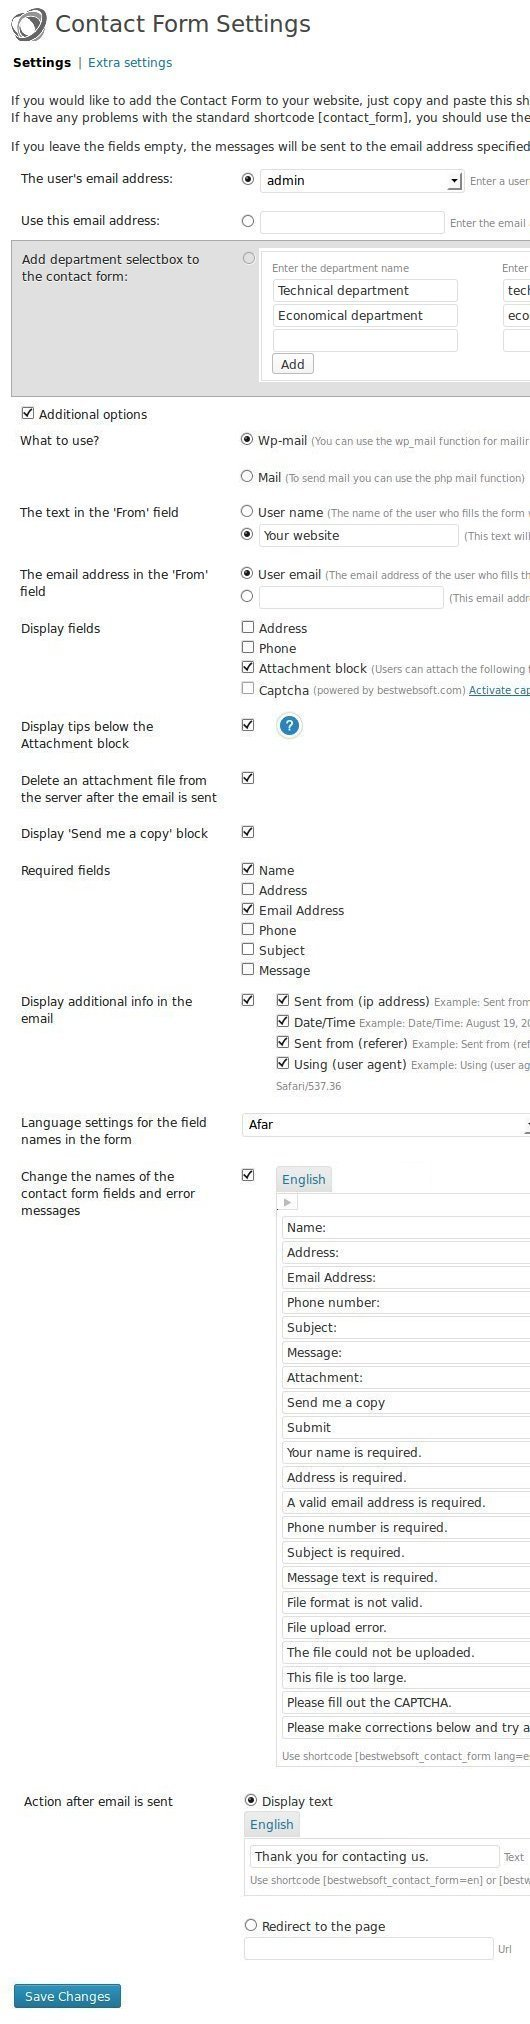
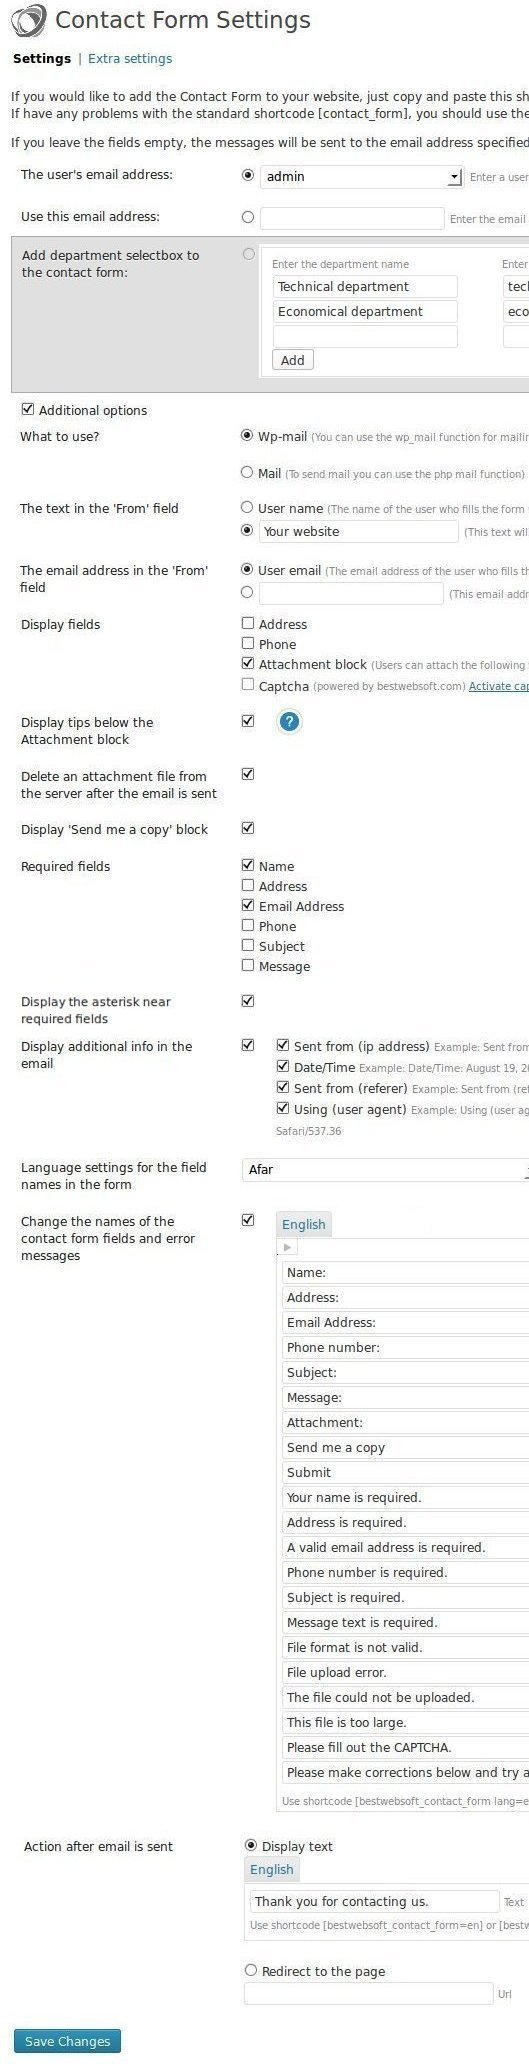
V3.59 - Ability to not display asterisk near required fields.
git-svn-id: https://plugins.svn.wordpress.org/contact-form-plugin/trunk@786375 b8457f37-d9ea-0310-8a92-e5e31aec5664

diff --git a/js/bws_menu.js b/js/bws_menu.js
@@ -9,6 +9,6 @@
 			} else {
 				$('.bws_system_info_meta_box .inside').css('display','block');
 			}					
-		});
+		});	
 	});
 })(jQuery);

diff --git a/contact_form.php b/contact_form.php
@@ -4,7 +4,7 @@ Plugin Name: Contact Form Plugin
 Plugin URI:  http://bestwebsoft.com/plugin/
 Description: Plugin for Contact Form.
 Author: BestWebSoft
-Version: 3.58
+Version: 3.59
 Author URI: http://bestwebsoft.com/
 License: GPLv2 or later
 */
@@ -43,58 +43,59 @@ if( ! function_exists( 'cntctfrm_settings' ) ) {
 		global $wpmu, $cntctfrm_options, $cntctfrm_option_defaults, $wpdb;
 
 		$cntctfrm_option_defaults = array(
-			'cntctfrm_user_email' => 'admin',
-			'cntctfrm_custom_email' => '',
-			'cntctfrm_select_email' => 'user',
-			'cntctfrm_from_email' => 'user',
-			'cntctfrm_custom_from_email' => '',
-			'cntctfrm_additions_options' => 0,
-			'cntctfrm_attachment' => 0,
-			'cntctfrm_attachment_explanations' => 1,
-			'cntctfrm_send_copy' => 0,
-			'cntctfrm_from_field' => get_bloginfo( 'name' ),
-			'cntctfrm_select_from_field' => 'custom',
-			'cntctfrm_display_phone_field' => 0,
-			'cntctfrm_display_address_field' => 0,
-			'cntctfrm_required_name_field' => 1,
-			'cntctfrm_required_address_field' => 0,
-			'cntctfrm_required_email_field' => 1,
-			'cntctfrm_required_phone_field' => 0,
-			'cntctfrm_required_subject_field' => 1,
-			'cntctfrm_required_message_field' => 1,
-			'cntctfrm_display_add_info' => 1,
-			'cntctfrm_display_sent_from' => 1,
-			'cntctfrm_display_date_time' => 1,
-			'cntctfrm_mail_method' => 'wp-mail',
-			'cntctfrm_display_coming_from' => 1,
-			'cntctfrm_display_user_agent' => 1,
-			'cntctfrm_language'	=> array(),
-			'cntctfrm_change_label' => 0,
-			'cntctfrm_name_label' => array( 'en' => __( "Name:", 'contact_form' ) ),
-			'cntctfrm_address_label' => array( 'en' => __( "Address:", 'contact_form' ) ),
-			'cntctfrm_email_label' => array( 'en' => __( "Email Address:", 'contact_form' ) ),		 	
-			'cntctfrm_phone_label' => array( 'en' => __( "Phone number:", 'contact_form' ) ),
-			'cntctfrm_subject_label' => array( 'en' => __( "Subject:", 'contact_form' ) ),
-			'cntctfrm_message_label' => array( 'en' => __( "Message:", 'contact_form' ) ),
-			'cntctfrm_attachment_label' => array( 'en' => __( "Attachment:", 'contact_form' ) ),
-			'cntctfrm_send_copy_label' => array( 'en' => __( "Send me a copy", 'contact_form' ) ),
-			'cntctfrm_submit_label' => array( 'en' => __( "Submit", 'contact_form' ) ),
-			'cntctfrm_name_error' => array( 'en' => __( "Your name is required.", 'contact_form' ) ),
-			'cntctfrm_address_error' => array( 'en' => __( "Address is required.", 'contact_form' ) ),
-			'cntctfrm_email_error' => array( 'en' => __( "A valid email address is required.", 'contact_form' ) ),
-			'cntctfrm_phone_error' => array( 'en' => __( "Phone number is required.", 'contact_form' ) ),
-			'cntctfrm_subject_error' => array( 'en' => __( "Subject is required.", 'contact_form' ) ),
-			'cntctfrm_message_error' => array( 'en' => __( "Message text is required.", 'contact_form' ) ),
-			'cntctfrm_attachment_error' => array( 'en' => __( "File format is not valid.", 'contact_form' ) ),
-			'cntctfrm_attachment_upload_error'=> array( 'en' => __( "File upload error.", 'contact_form' ) ),
-			'cntctfrm_attachment_move_error' => array( 'en' => __( "The file could not be uploaded.", 'contact_form' ) ),
-			'cntctfrm_attachment_size_error' => array( 'en' => __( "This file is too large.", 'contact_form' ) ),
-			'cntctfrm_captcha_error' => array( 'en' => __( "Please fill out the CAPTCHA.", 'contact_form' ) ),
-			'cntctfrm_form_error' => array( 'en' => __( "Please make corrections below and try again.", 'contact_form' ) ),
-			'cntctfrm_action_after_send' => 1,
-			'cntctfrm_thank_text' => array( 'en' => __( "Thank you for contacting us.", 'contact_form' ) ),
-			'cntctfrm_redirect_url' => '',
-			'cntctfrm_delete_attached_file' => '0'
+			'cntctfrm_user_email'				=> 'admin',
+			'cntctfrm_custom_email'				=> '',
+			'cntctfrm_select_email'				=> 'user',
+			'cntctfrm_from_email'				=> 'user',
+			'cntctfrm_custom_from_email'		=> '',
+			'cntctfrm_additions_options'		=> 0,
+			'cntctfrm_attachment'				=> 0,
+			'cntctfrm_attachment_explanations'	=> 1,
+			'cntctfrm_send_copy'				=> 0,
+			'cntctfrm_from_field'				=> get_bloginfo( 'name' ),
+			'cntctfrm_select_from_field'		=> 'custom',
+			'cntctfrm_display_phone_field' 		=> 0,
+			'cntctfrm_display_address_field' 	=> 0,
+			'cntctfrm_required_name_field' 		=> 1,
+			'cntctfrm_required_address_field' 	=> 0,
+			'cntctfrm_required_email_field' 	=> 1,
+			'cntctfrm_required_phone_field' 	=> 0,
+			'cntctfrm_required_subject_field' 	=> 1,
+			'cntctfrm_required_message_field' 	=> 1,
+			'cntctfrm_required_symbol'			=> 1,
+			'cntctfrm_display_add_info' 		=> 1,
+			'cntctfrm_display_sent_from' 		=> 1,
+			'cntctfrm_display_date_time' 		=> 1,
+			'cntctfrm_mail_method' 				=> 'wp-mail',
+			'cntctfrm_display_coming_from' 		=> 1,
+			'cntctfrm_display_user_agent' 		=> 1,
+			'cntctfrm_language'					=> array(),
+			'cntctfrm_change_label'				=> 0,
+			'cntctfrm_name_label' 				=> array( 'en' => __( "Name:", 'contact_form' ) ),
+			'cntctfrm_address_label' 			=> array( 'en' => __( "Address:", 'contact_form' ) ),
+			'cntctfrm_email_label' 				=> array( 'en' => __( "Email Address:", 'contact_form' ) ),		 	
+			'cntctfrm_phone_label' 				=> array( 'en' => __( "Phone number:", 'contact_form' ) ),
+			'cntctfrm_subject_label' 			=> array( 'en' => __( "Subject:", 'contact_form' ) ),
+			'cntctfrm_message_label' 			=> array( 'en' => __( "Message:", 'contact_form' ) ),
+			'cntctfrm_attachment_label'			=> array( 'en' => __( "Attachment:", 'contact_form' ) ),
+			'cntctfrm_send_copy_label'			=> array( 'en' => __( "Send me a copy", 'contact_form' ) ),
+			'cntctfrm_submit_label'				=> array( 'en' => __( "Submit", 'contact_form' ) ),
+			'cntctfrm_name_error' 				=> array( 'en' => __( "Your name is required.", 'contact_form' ) ),
+			'cntctfrm_address_error' 			=> array( 'en' => __( "Address is required.", 'contact_form' ) ),
+			'cntctfrm_email_error' 				=> array( 'en' => __( "A valid email address is required.", 'contact_form' ) ),
+			'cntctfrm_phone_error' 				=> array( 'en' => __( "Phone number is required.", 'contact_form' ) ),
+			'cntctfrm_subject_error' 			=> array( 'en' => __( "Subject is required.", 'contact_form' ) ),
+			'cntctfrm_message_error' 			=> array( 'en' => __( "Message text is required.", 'contact_form' ) ),
+			'cntctfrm_attachment_error' 		=> array( 'en' => __( "File format is not valid.", 'contact_form' ) ),
+			'cntctfrm_attachment_upload_error'	=> array( 'en' => __( "File upload error.", 'contact_form' ) ),
+			'cntctfrm_attachment_move_error' 	=> array( 'en' => __( "The file could not be uploaded.", 'contact_form' ) ),
+			'cntctfrm_attachment_size_error' 	=> array( 'en' => __( "This file is too large.", 'contact_form' ) ),
+			'cntctfrm_captcha_error' 			=> array( 'en' => __( "Please fill out the CAPTCHA.", 'contact_form' ) ),
+			'cntctfrm_form_error'				=> array( 'en' => __( "Please make corrections below and try again.", 'contact_form' ) ),
+			'cntctfrm_action_after_send' 		=> 1,
+			'cntctfrm_thank_text' 				=> array( 'en' => __( "Thank you for contacting us.", 'contact_form' ) ),
+			'cntctfrm_redirect_url'				=> '',
+			'cntctfrm_delete_attached_file'		=> '0'
 		);
 
 		// install the option defaults
@@ -103,7 +104,7 @@ if( ! function_exists( 'cntctfrm_settings' ) ) {
 				add_site_option( 'cntctfrm_options', $cntctfrm_option_defaults, '', 'yes' );
 			}
 		} else {
-			if( !get_option( 'cntctfrm_options' ) )
+			if ( !get_option( 'cntctfrm_options' ) )
 				add_option( 'cntctfrm_options', $cntctfrm_option_defaults, '', 'yes' );
 		}
 
@@ -113,7 +114,6 @@ if( ! function_exists( 'cntctfrm_settings' ) ) {
 		else
 			$cntctfrm_options = get_option( 'cntctfrm_options' );// get options from the database
 
-		$cntctfrm_options = get_option( 'cntctfrm_options' );
 		if ( empty( $cntctfrm_options['cntctfrm_language'] ) && ! is_array( $cntctfrm_options['cntctfrm_name_label'] ) ) {
 			$cntctfrm_options['cntctfrm_name_label']				= array( 'en' => $cntctfrm_options['cntctfrm_name_label'] );
 			$cntctfrm_options['cntctfrm_address_label']				= array( 'en' => $cntctfrm_options['cntctfrm_address_label'] );
@@ -209,7 +209,8 @@ if( ! function_exists( 'cntctfrm_settings_page' ) ) {
 				$cntctfrm_options_submit['cntctfrm_required_email_field']		= 1;
 				$cntctfrm_options_submit['cntctfrm_required_phone_field']		= 0;
 				$cntctfrm_options_submit['cntctfrm_required_subject_field']		= 1;
-				$cntctfrm_options_submit['cntctfrm_required_message_field']		= 1;
+				$cntctfrm_options_submit['cntctfrm_required_message_field']		= 1; 
+				$cntctfrm_options_submit['cntctfrm_required_symbol']			= 1;
 				$cntctfrm_options_submit['cntctfrm_display_add_info']			= 1;
 				$cntctfrm_options_submit['cntctfrm_display_sent_from']			= 1;
 				$cntctfrm_options_submit['cntctfrm_display_date_time']			= 1;
@@ -316,6 +317,8 @@ if( ! function_exists( 'cntctfrm_settings_page' ) ) {
 				}
 				$cntctfrm_options_submit['cntctfrm_required_subject_field']		= isset( $_POST['cntctfrm_required_subject_field']) ? 1 : 0;
 				$cntctfrm_options_submit['cntctfrm_required_message_field']		= isset( $_POST['cntctfrm_required_message_field']) ? 1 : 0;
+
+				$cntctfrm_options_submit['cntctfrm_required_symbol']			= isset( $_POST['cntctfrm_required_symbol']) ? 1 : 0;
 				
 				$cntctfrm_options_submit['cntctfrm_display_add_info']			= isset( $_POST['cntctfrm_display_add_info']) ? 1 : 0;				
 				if ( $cntctfrm_options_submit['cntctfrm_display_add_info'] == 1 ) {
@@ -602,6 +605,12 @@ if( ! function_exists( 'cntctfrm_settings_page' ) ) {
 						<input type="checkbox" id="cntctfrm_required_phone_field" name="cntctfrm_required_phone_field" value="1" <?php if($cntctfrm_options['cntctfrm_required_phone_field'] == '1') echo "checked=\"checked\" "; ?>/> <?php _e( "Phone", 'contact_form' ); ?><br />
 						<input type="checkbox" id="cntctfrm_required_subject_field" name="cntctfrm_required_subject_field" value="1" <?php if($cntctfrm_options['cntctfrm_required_subject_field'] == '1') echo "checked=\"checked\" "; ?>/> <?php _e( "Subject", 'contact_form' ); ?><br />
 						<input type="checkbox" id="cntctfrm_required_message_field" name="cntctfrm_required_message_field" value="1" <?php if($cntctfrm_options['cntctfrm_required_message_field'] == '1') echo "checked=\"checked\" "; ?>/> <?php _e( "Message", 'contact_form' ); ?>
+					</td>
+				</tr>
+				<tr valign="top" class="cntctfrm_additions_block <?php if ( $cntctfrm_options['cntctfrm_additions_options'] == '0' ) echo "cntctfrm_hidden"; ?>">
+					<th scope="row" style="width:200px;"><?php _e( "Display the asterisk near required fields", 'contact_form' ); ?></th>
+					<td colspan="2">
+						<input type="checkbox" id="cntctfrm_required_symbol" name="cntctfrm_required_symbol" value="1" <?php if ( $cntctfrm_options['cntctfrm_required_symbol'] == '1' ) echo "checked=\"checked\" "; ?>/>
 					</td>
 				</tr>
 				<tr valign="top" class="cntctfrm_additions_block <?php if( $cntctfrm_options['cntctfrm_additions_options'] == '0' ) echo "cntctfrm_hidden"; ?>">
@@ -1053,38 +1062,36 @@ if( ! function_exists( 'cntctfrm_display_form' ) ) {
 
 		$send_copy = isset( $_POST['cntctfrm_contact_send_copy'] ) ? $_POST['cntctfrm_contact_send_copy'] : "";
 		// If it is good
-		if( true === $cntctfrm_result ) {
+		if ( true === $cntctfrm_result ) {
 			$_SESSION['cntctfrm_send_mail'] = true;
-			if( $cntctfrm_options['cntctfrm_action_after_send'] == 1 )
+			if ( $cntctfrm_options['cntctfrm_action_after_send'] == 1 )
 				$content .= '<div id="cntctfrm_thanks">' . $cntctfrm_options['cntctfrm_thank_text'][$lang] . '</div>';
 			else
 				$content .= "<script type='text/javascript'>window.location.href = '".$cntctfrm_options['cntctfrm_redirect_url']."';</script>";
-		}
-		else if( false === $cntctfrm_result )
-		{
+		} else if ( false === $cntctfrm_result ) {
 			// If email not be delivered
 			$error_message['error_form'] = __( "Sorry, email message could not be delivered.", 'contact_form' );
 		}
-		if( true !== $cntctfrm_result) { 
+		if ( true !== $cntctfrm_result ) { 
 			$_SESSION['cntctfrm_send_mail'] = false;
 			// Output form
 			$content .= '<form method="post" id="cntctfrm_contact_form" action="'.$page_url.'" enctype="multipart/form-data">';
-			if( isset( $error_message['error_form'] ) ) { 
+			if ( isset( $error_message['error_form'] ) ) { 
 				$content .= '<div style="text-align: left; color: red;">'.$error_message['error_form'].'</div>';
-				}
+			}
 			$content .= '<div style="text-align: left; padding-top: 5px;">
-					<label for="cntctfrm_contact_name">'. $cntctfrm_options['cntctfrm_name_label'][$lang] . ( $cntctfrm_options['cntctfrm_required_name_field'] == 1 ? '<span class="required"> *</span></label>' : '</label>' ) . '
+					<label for="cntctfrm_contact_name">'. $cntctfrm_options['cntctfrm_name_label'][$lang] . ( $cntctfrm_options['cntctfrm_required_name_field'] == 1 && $cntctfrm_options['cntctfrm_required_symbol'] == 1 ? '<span class="required"> *</span></label>' : '</label>' ) . '
 				</div>';
-			if( isset( $error_message['error_name'] ) ) {
+			if ( isset( $error_message['error_name'] ) ) {
 				$content .= '<div style="text-align: left; color: red;">'.$error_message['error_name'].'</div>';
 			}
 			$content .= '<div style="text-align: left;">
 					<input class="text" type="text" size="40" value="'.$name.'" name="cntctfrm_contact_name" id="cntctfrm_contact_name" style="text-align: left; margin: 0;" />
 				</div>';
 
-			if( $cntctfrm_options['cntctfrm_display_address_field'] == 1 ) { 
+			if ( $cntctfrm_options['cntctfrm_display_address_field'] == 1 ) { 
 				$content .= '<div style="text-align: left;">
-						<label for="cntctfrm_contact_address">'. $cntctfrm_options['cntctfrm_address_label'][$lang] . ( $cntctfrm_options['cntctfrm_required_address_field'] == 1 ? '<span class="required"> *</span></label>' : '</label>' ) . '
+						<label for="cntctfrm_contact_address">'. $cntctfrm_options['cntctfrm_address_label'][$lang] . ( $cntctfrm_options['cntctfrm_required_address_field'] == 1 && $cntctfrm_options['cntctfrm_required_symbol'] == 1 ? '<span class="required"> *</span></label>' : '</label>' ) . '
 					</div>';
 				if( isset( $error_message['error_address'] ) ) {
 					$content .= '<div style="text-align: left; color: red;">'.$error_message['error_address'].'</div>';
@@ -1096,9 +1103,9 @@ if( ! function_exists( 'cntctfrm_display_form' ) ) {
 			}
 
 			$content .= '<div style="text-align: left;">
-					<label for="cntctfrm_contact_email">'. $cntctfrm_options['cntctfrm_email_label'][$lang] . ( $cntctfrm_options['cntctfrm_required_email_field'] == 1 ? '<span class="required"> *</span></label>' : '</label>' ) . '
+					<label for="cntctfrm_contact_email">'. $cntctfrm_options['cntctfrm_email_label'][$lang] . ( $cntctfrm_options['cntctfrm_required_email_field'] == 1 && $cntctfrm_options['cntctfrm_required_symbol'] == 1 ? '<span class="required"> *</span></label>' : '</label>' ) . '
 				</div>';
-			if( isset( $error_message['error_email'] ) ) {
+			if ( isset( $error_message['error_email'] ) ) {
 				$content .= '<div style="text-align: left; color: red;">'.$error_message['error_email'].'</div>';
 			}
 			$content .= '<div style="text-align: left;">
@@ -1106,9 +1113,9 @@ if( ! function_exists( 'cntctfrm_display_form' ) ) {
 				</div>
 			';
 
-			if( $cntctfrm_options['cntctfrm_display_phone_field'] == 1 ) { 
+			if ( $cntctfrm_options['cntctfrm_display_phone_field'] == 1 ) { 
 				$content .= '<div style="text-align: left;">
-						<label for="cntctfrm_contact_phone">'. $cntctfrm_options['cntctfrm_phone_label'][$lang] . ( $cntctfrm_options['cntctfrm_required_phone_field'] == 1 ? '<span class="required"> *</span></label>' : '</label>' ) . '
+						<label for="cntctfrm_contact_phone">'. $cntctfrm_options['cntctfrm_phone_label'][$lang] . ( $cntctfrm_options['cntctfrm_required_phone_field'] == 1 && $cntctfrm_options['cntctfrm_required_symbol'] == 1 ? '<span class="required"> *</span></label>' : '</label>' ) . '
 					</div>';
 				if( isset( $error_message['error_phone'] ) ) {
 					$content .= '<div style="text-align: left; color: red;">'.$error_message['error_phone'].'</div>';
@@ -1119,9 +1126,9 @@ if( ! function_exists( 'cntctfrm_display_form' ) ) {
 					';
 			}
 			$content .= '<div style="text-align: left;">
-					<label for="cntctfrm_contact_subject">'. $cntctfrm_options['cntctfrm_subject_label'][$lang] . ( $cntctfrm_options['cntctfrm_required_subject_field'] == 1 ? '<span class="required"> *</span></label>' : '</label>' ) . '
+					<label for="cntctfrm_contact_subject">'. $cntctfrm_options['cntctfrm_subject_label'][$lang] . ( $cntctfrm_options['cntctfrm_required_subject_field'] == 1 && $cntctfrm_options['cntctfrm_required_symbol'] == 1 ? '<span class="required"> *</span></label>' : '</label>' ) . '
 				</div>';
-			if( isset( $error_message['error_subject'] ) ) {
+			if ( isset( $error_message['error_subject'] ) ) {
 				$content .= '<div style="text-align: left; color: red;">'.$error_message['error_subject'].'</div>';
 			}
 			$content .= '<div style="text-align: left;">
@@ -1129,15 +1136,15 @@ if( ! function_exists( 'cntctfrm_display_form' ) ) {
 				</div>
 
 				<div style="text-align: left;">
-					<label for="cntctfrm_contact_message">'. $cntctfrm_options['cntctfrm_message_label'][$lang] . ( $cntctfrm_options['cntctfrm_required_message_field'] == 1 ? '<span class="required"> *</span></label>' : '</label>' ) . '
+					<label for="cntctfrm_contact_message">'. $cntctfrm_options['cntctfrm_message_label'][$lang] . ( $cntctfrm_options['cntctfrm_required_message_field'] == 1 && $cntctfrm_options['cntctfrm_required_symbol'] == 1 ? '<span class="required"> *</span></label>' : '</label>' ) . '
 				</div>';
-			if( isset( $error_message['error_message'] ) ) {
+			if ( isset( $error_message['error_message'] ) ) {
 				$content .= '<div style="text-align: left; color: red;">'.$error_message['error_message'].'</div>';
 			}
 			$content .= '<div style="text-align: left;">
 					<textarea rows="5" cols="30" name="cntctfrm_contact_message" id="cntctfrm_contact_message">'.$message.'</textarea>
 				</div>';
-			if( $cntctfrm_options['cntctfrm_attachment'] == 1 ) {
+			if ( $cntctfrm_options['cntctfrm_attachment'] == 1 ) {
 				$content .= '<div style="text-align: left;">
 						<label for="cntctfrm_contact_attachment">'. $cntctfrm_options['cntctfrm_attachment_label'][$lang] . '</label>
 					</div>';
@@ -1145,21 +1152,21 @@ if( ! function_exists( 'cntctfrm_display_form' ) ) {
 					$content .= '<div style="text-align: left; color: red;">'.$error_message['error_attachment'].'</div>';
 				}
 				$content .= '<div style="text-align: left;">
-						<input type="file" name="cntctfrm_contact_attachment" id="cntctfrm_contact_attachment"'.(isset( $error_message['error_attachment'] ) ? "class='error'": "").' />';
+						<input type="file" name="cntctfrm_contact_attachment" id="cntctfrm_contact_attachment"'.( isset( $error_message['error_attachment'] ) ? "class='error'": "" ).' />';
 				if( $cntctfrm_options['cntctfrm_attachment_explanations'] == 1 ){
 						$content .= '<label style="font-size:10px;"><br />'. __( "You can attach the following file formats", 'contact_form' ) . ': html, txt, css, gif, png, jpeg, jpg, tiff, bmp, ai, eps, ps, rtf, pdf, doc, docx, xls, zip, rar, wav, mp3, ppt</label>';
 				}
 				$content .= '
 				</div>';
 			}
-			if($cntctfrm_options['cntctfrm_send_copy'] == 1 ) {
+			if ( $cntctfrm_options['cntctfrm_send_copy'] == 1 ) {
 				$content .= '<div style="text-align: left;">
 						<input type="checkbox" value="1" name="cntctfrm_contact_send_copy" id="cntctfrm_contact_send_copy" style="text-align: left; margin: 0;" '.( $send_copy == '1' ? " checked=\"checked\" " : "" ).' />
 						<label for="cntctfrm_contact_send_copy">'. $cntctfrm_options['cntctfrm_send_copy_label'][$lang] . '</label>
 					</div>';
 			}
 
-			if( has_filter( 'cntctfrm_display_captcha' ) ) {
+			if ( has_filter( 'cntctfrm_display_captcha' ) ) {
 				$content .= apply_filters( 'cntctfrm_display_captcha' , $error_message );
 			}
 				
@@ -1581,9 +1588,9 @@ if ( ! function_exists ( 'cntctfrm_register_plugin_links' ) ) {
 	function cntctfrm_register_plugin_links( $links, $file ) {
 		$base = plugin_basename(__FILE__);
 		if ( $file == $base ) {
-			$links[] = '<a href="admin.php?page=contact_form.php">' . __('Settings','contact_form') . '</a>';
-			$links[] = '<a href="http://wordpress.org/extend/plugins/contact-form-plugin/faq/" target="_blank">' . __('FAQ','contact_form') . '</a>';
-			$links[] = '<a href="http://support.bestwebsoft.com">' . __('Support','contact_form') . '</a>';
+			$links[] = '<a href="admin.php?page=contact_form.php">' . __( 'Settings','contact_form' ) . '</a>';
+			$links[] = '<a href="http://wordpress.org/extend/plugins/contact-form-plugin/faq/" target="_blank">' . __( 'FAQ','contact_form' ) . '</a>';
+			$links[] = '<a href="http://support.bestwebsoft.com">' . __( 'Support','contact_form' ) . '</a>';
 		}
 		return $links;
 	}
@@ -1592,19 +1599,17 @@ if ( ! function_exists ( 'cntctfrm_register_plugin_links' ) ) {
 if ( ! function_exists ( 'cntctfrm_clean_input' ) ) {
 	function cntctfrm_clean_input( $string, $preserve_space = 0 ) {
 		if ( is_string( $string ) ) {
-			if($preserve_space) {
+			if ( $preserve_space ) {
 				return cntctfrm_sanitize_string( strip_tags( stripslashes( $string ) ), $preserve_space );
 			}
 			return trim( cntctfrm_sanitize_string( strip_tags( stripslashes( $string ) ) ) );
-		} 
-		else if ( is_array( $string ) ) {
+		} else if ( is_array( $string ) ) {
 			reset( $string );
 			while ( list($key, $value ) = each( $string ) ) {
 				$string[$key] = cntctfrm_clean_input($value,$preserve_space);
 			}
 			return $string;
-		} 
-		else {
+		} else {
 			return $string;
 		}
 	}

diff --git a/bws_menu/bws_menu.php b/bws_menu/bws_menu.php
@@ -28,7 +28,8 @@ if ( ! function_exists( 'bws_add_menu_render' ) ) {
 			array( 'google-sitemap-plugin\/google-sitemap-plugin.php', 'Google sitemap plugin', 'http://bestwebsoft.com/plugin/google-sitemap-plugin/', 'http://bestwebsoft.com/plugin/google-sitemap-plugin/#download', '/wp-admin/plugin-install.php?tab=search&type=term&s=Google+sitemap+plugin+bestwebsoft&plugin-search-input=Search+Plugins', 'admin.php?page=google-sitemap-plugin.php' ),
 			array( 'updater\/updater.php', 'Updater', 'http://bestwebsoft.com/plugin/updater-plugin/', 'http://bestwebsoft.com/plugin/updater-plugin/#download', '/wp-admin/plugin-install.php?tab=search&type=term&s=updater+bestwebsoft&plugin-search-input=Search+Plugins', 'admin.php?page=updater-options' ),
 			array( 'custom-fields-search\/custom-fields-search.php', 'Custom Fields Search', 'http://bestwebsoft.com/plugin/custom-fields-search/', 'http://bestwebsoft.com/plugin/custom-fields-search/#download', '/wp-admin/plugin-install.php?tab=search&type=term&s=Custom+Fields+Search+bestwebsoft&plugin-search-input=Search+Plugins', 'admin.php?page=custom_fields_search.php' ),
-			array( 'google-plus-one\/google-plus-one.php', 'Google +1', 'http://bestwebsoft.com/plugin/google-plus-one/', 'http://bestwebsoft.com/plugin/google-plus-one/#download', '/wp-admin/plugin-install.php?tab=search&type=term&s=Google+%2B1+bestwebsoft&plugin-search-input=Search+Plugins', 'admin.php?page=google-plus-one.php' )
+			array( 'google-one\/google-plus-one.php', 'Google +1', 'http://bestwebsoft.com/plugin/google-plus-one/', 'http://bestwebsoft.com/plugin/google-plus-one/#download', '/wp-admin/plugin-install.php?tab=search&type=term&s=Google+%2B1+bestwebsoft&plugin-search-input=Search+Plugins', 'admin.php?page=google-plus-one.php' ),
+			array( 'relevant\/related-posts-plugin.php', 'Related Posts Plugin', 'http://bestwebsoft.com/plugin/related-posts-plugin/', 'http://bestwebsoft.com/plugin/related-posts-plugin/#download', '/wp-admin/plugin-install.php?tab=search&s=Related+Posts+Plugin+Bestwebsoft&plugin-search-input=Search+Plugins', 'admin.php?page=related-posts-plugin.php' )
 		);
 		foreach ( $array_plugins as $plugins ) {
 			if( 0 < count( preg_grep( "/".$plugins[0]."/", $active_plugins ) ) ) {
